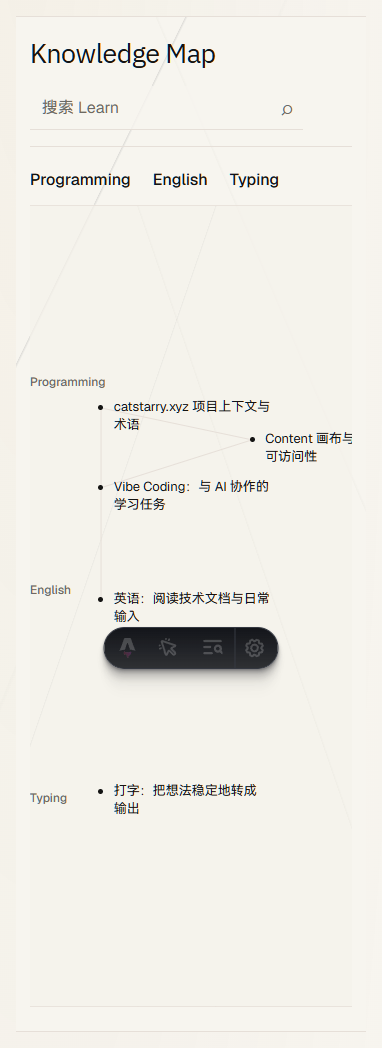
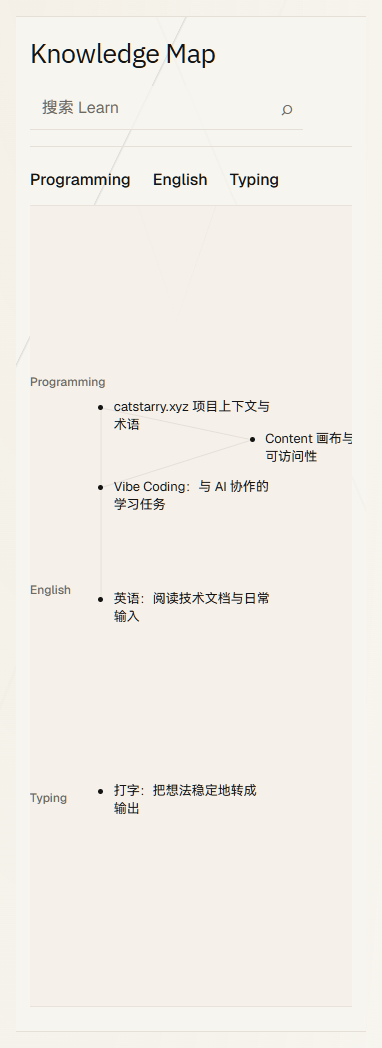
fix: quiet Learn graph engraving

Changed region(s): [[0.2592, 0.5802, 0.7487, 0.6718]]

diff --git a/src/components/learn/learn.css b/src/components/learn/learn.css
@@ -200,11 +200,19 @@
   position: relative;
   height: clamp(320px, 24vw, 350px);
   overflow: clip;
-  background:
-    linear-gradient(109deg, transparent 0 31%, color-mix(in srgb, var(--geo-graphite) 6%, transparent) 31.08%, transparent 31.3%),
-    linear-gradient(71deg, transparent 0 64%, color-mix(in srgb, var(--geo-mineral) 9%, transparent) 64.08%, transparent 64.4%),
-    color-mix(in srgb, var(--learn-field-deep) 68%, transparent);
+  background: var(--learn-field-deep);
   border-block: 1px solid color-mix(in srgb, var(--content-hairline) 82%, transparent);
+}
+.learn-graph::before {
+  position: absolute;
+  inset: 0;
+  content: '';
+  pointer-events: none;
+  background:
+    linear-gradient(109deg, transparent 0 31%, color-mix(in srgb, var(--geo-graphite) 3%, transparent) 31.08%, transparent 31.3%),
+    linear-gradient(71deg, transparent 0 64%, color-mix(in srgb, var(--geo-mineral) 4%, transparent) 64.08%, transparent 64.4%);
+  -webkit-mask-image: linear-gradient(to bottom, #000 0 5%, transparent 16% 84%, #000 95% 100%);
+  mask-image: linear-gradient(to bottom, #000 0 5%, transparent 16% 84%, #000 95% 100%);
 }
 .learn-graph__edges { position: absolute; inset: 0; width: 100%; height: 100%; overflow: visible; }
 .learn-graph__edges line {
